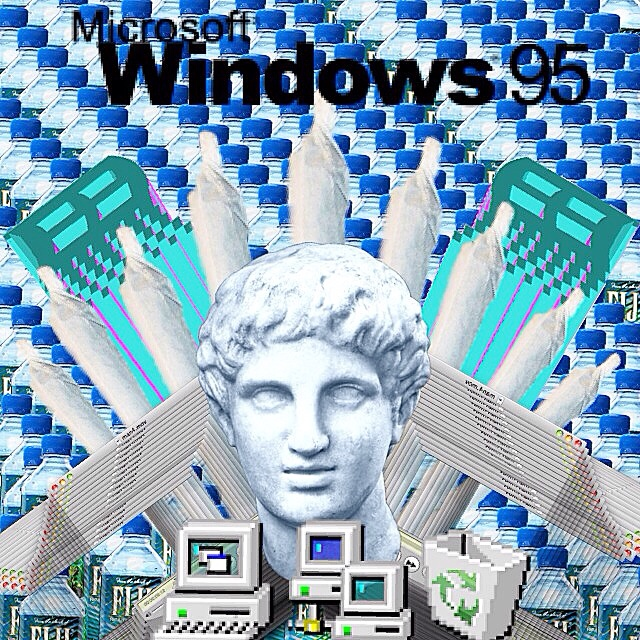
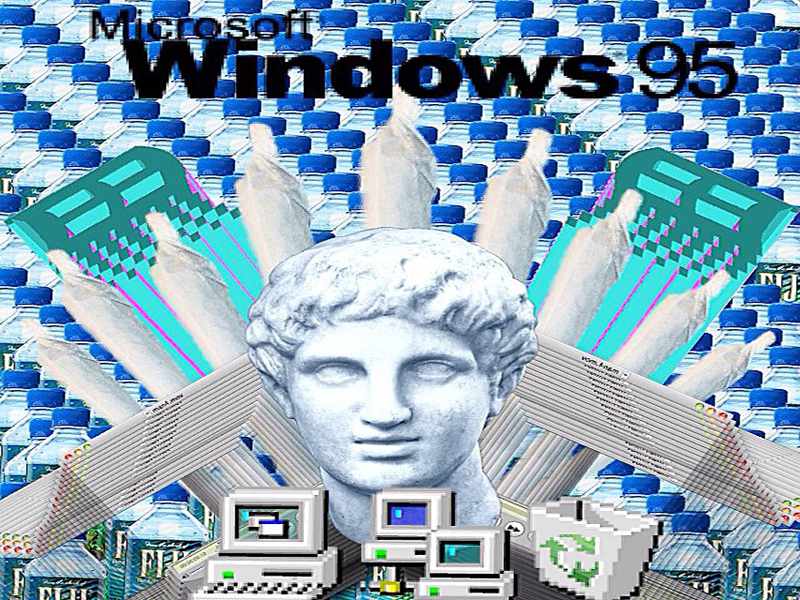
Pictures resized and overlay fix

diff --git a/CSS/style.css b/CSS/style.css
@@ -132,7 +132,12 @@ color:#000;
 .picholder:hover .overlay{opacity:1;}
 .picholder:hover .fancypics{opacity:0.7;}
 
- .overlay {
+.picholder{
+  padding:0px;
+  margin: 5px;
+}
+
+.overlay {
   bottom: 0;left: 0; top: 0; right: 0;
   margin: auto;
   position: absolute;

diff --git a/Viewer/projets.php b/Viewer/projets.php
@@ -3,10 +3,11 @@
 	<head>
 		<title>Licence Professionnelle Image & Son</title>
 		<meta charset="UTF-8"/>
-		<link type="text/css" rel="stylesheet" href="../CSS/style.css">
+		
 		<link rel="stylesheet" type="text/css" href="../Ressources/bootstrap-3.3.6-dist/css/bootstrap.min.css">
 		<link rel="stylesheet" href="../Ressources/font-awesome-4.5.0/css/font-awesome.min.css">
 		<link rel="stylesheet" href="../Ressources/bootstrap-rating-master/bootstrap-rating.css">
+		<link type="text/css" rel="stylesheet" href="../CSS/style.css">
 		<script type="text/javascript" src="../Ressources/owl-carousel/jquery-1.9.1.min.js"></script>
 		<script type="text/javascript" src="../Ressources/bootstrap-3.3.6-dist/js/bootstrap.min.js"></script>
 		<script type="text/javascript" src="../Ressources/bootstrap-rating-master/bootstrap-rating.js"></script>
@@ -75,33 +76,37 @@
 			</nav>
 	</header>
 	<body>
-		<?php
+		<div class="row">
+			<div class="col-xs-12 well">
+				<?php
 
-			$parcoursId=$_GET['parcoursId'];
+					$parcoursId=$_GET['parcoursId'];
 
-			include('../PHP/connexion.php');
+					include('../PHP/connexion.php');
 
-			$sql="SELECT * FROM projets WHERE ID_parcours='".$parcoursId."'ORDER BY Date DESC, Poids DESC";
-			$result = $conn->query($sql);
+					$sql="SELECT * FROM projets WHERE ID_parcours='".$parcoursId."'ORDER BY Date DESC, Poids DESC";
+					$result = $conn->query($sql);
+					if ($result->num_rows > 0) {
 
-			if ($result->num_rows > 0) {
-				while ($row = $result->fetch_assoc()) {
-					echo "
-						<div class='picholder col-xs-4 col-sm-3 col-md-2'>
-								<img class='fancypics' src='".utf8_encode($row["Miniature"])."'>
-								<div class='overlay'>
-									<p class='text_box'>".utf8_encode($row["Nom"])."</p>
-									<div class='star-rating'><input id='inner-rating' type='hidden' class='rating' data-readonly value='".$row["Poids"]."'></div>
-								</div>
-						</div>";
-				}
-			} else {
-				echo "0 results";
-			}
-			
+						while ($row = $result->fetch_assoc()) {
+							echo "
+								<div class='picholder col-xs-4 col-sm-3 col-md-2'>
+										<img class='fancypics' src='".utf8_encode($row["Miniature"])."'>
+										<div class='overlay'>
+											<p class='text_box'>".utf8_encode($row["Nom"])."</p>
+											<div class='star-rating'><input id='inner-rating' type='hidden' class='rating' data-readonly value='".$row["Poids"]."'></div>
+										</div>
+								</div>";
+						}
+					} else {
+						echo "0 results";
+					}
+					
 
-			include('../PHP/deconnexion.php');
-		?>
+					include('../PHP/deconnexion.php');
+				?>
+			</div>
+		</div>
 	</body>
 
 	<footer>
